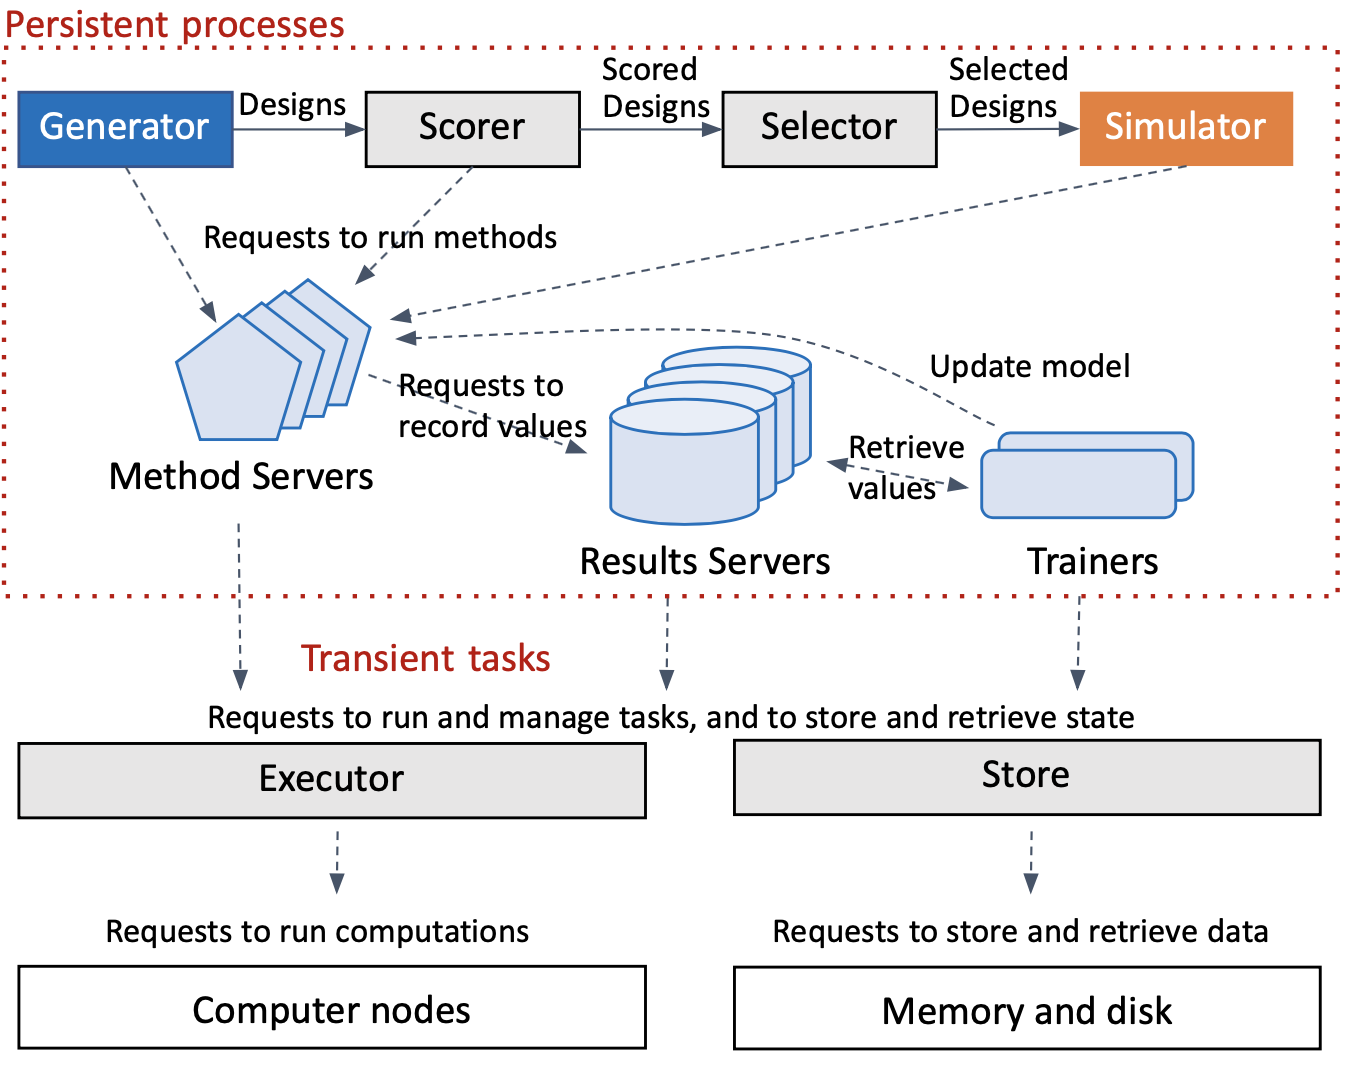
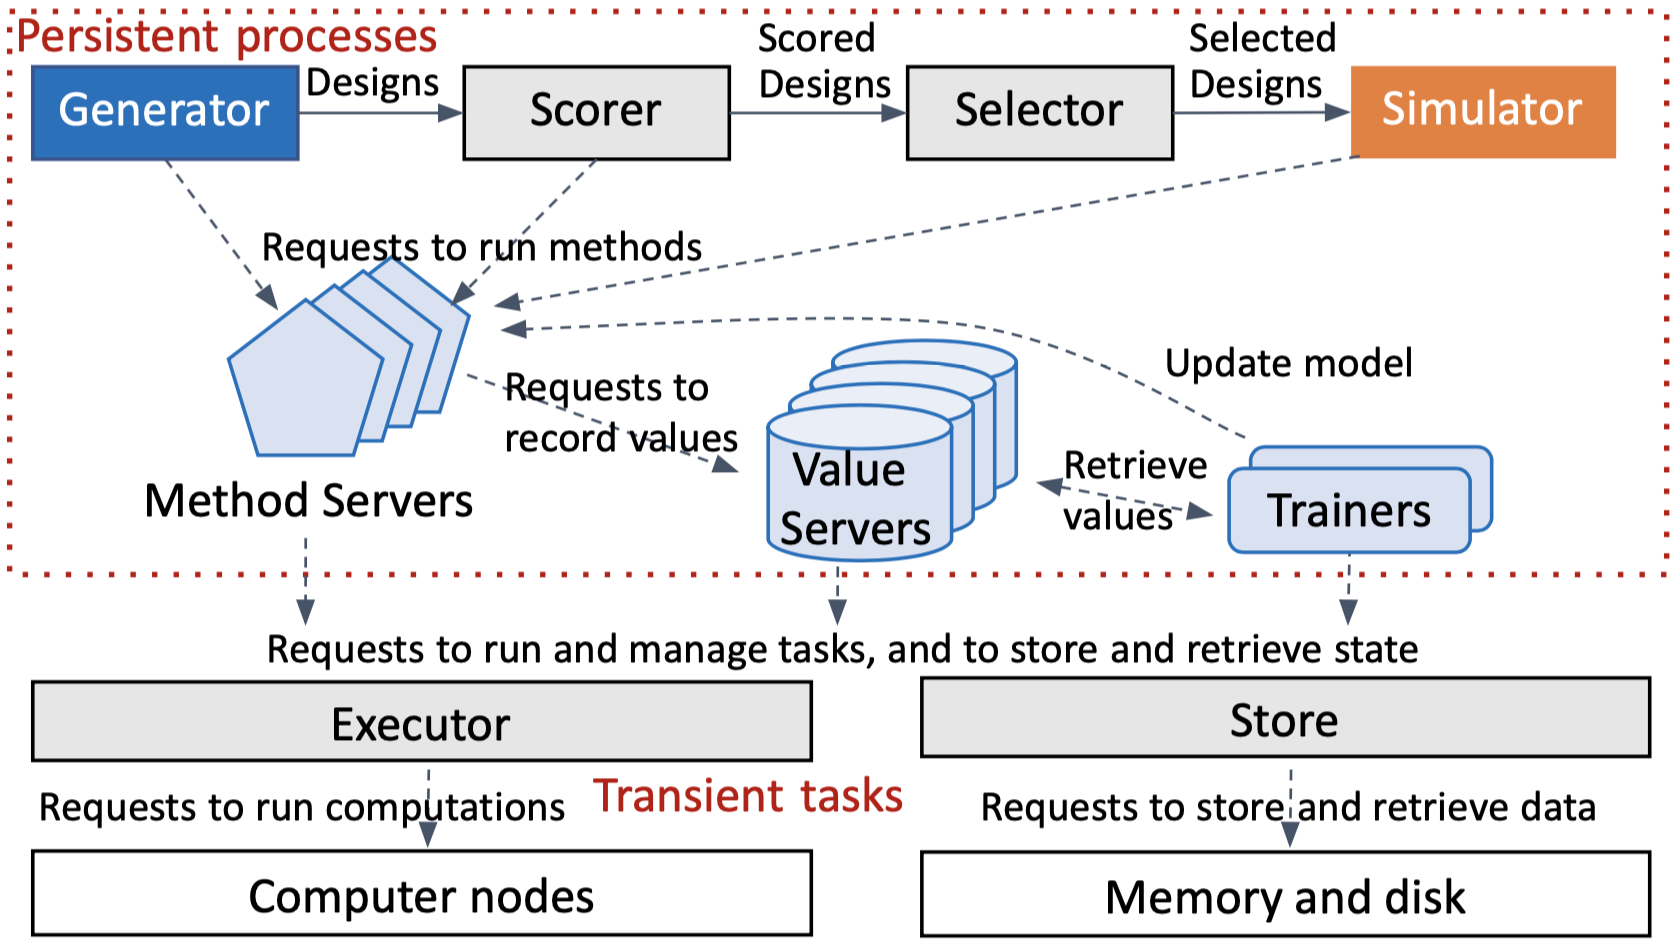
check in

diff --git a/main.tex b/main.tex
@@ -114,12 +114,12 @@ where ``interesting" is defined in terms of \textbf{properties}, $P_i$.
 For example, if the objects are molecules, we might define interesting in terms of three properties: energy, stability, and toxicity.
 Thus, for any candidate molecule $m$, we want to know $P_{\textrm{energy}}$($m)$, $P_{\textrm{stability}}$($m)$, and $P_{\textrm{toxicity}}$($m)$.
 
-We typically cannot determine any $P_i(m)$ precisely. Instead, for a particular property $P_i$, we can have various \textbf{methods}, $P_i^k$, 
-each of which can be used to obtain estimates of $P_i(m)$ values. In the molecular design case, these methods could be, for example, 
-a particular experimental protocol; 
-a quantum mechanics (QM) code; 
-a database collected from the literature; or
-a machine-learned (ML) model based on property value estimate values produced by any other method.
+We typically cannot determine $P_i(m)$ precisely. Instead, for a property $P_i$, we have various \textbf{methods}, $P_i^k$, 
+each of which can be used to obtain estimates of $P_i(m)$ values. In the molecular design case, a method could be, for example, 
+a particular experimental protocol,
+a quantum mechanics (QM) code,
+a database collected from the literature, or
+a machine-learned (ML) model based on estimated values produced by any other method.
 During the discovery process, a method $P_i^k$ may be applied to a series of objects. 
 We denote the \textbf{values} computed by a method $P_i^k$ as \textbf{V}($P_i^k$).
 
@@ -317,11 +317,20 @@ We use a specific example to illustrate issues.
 \label{fig:sketch}
 \end{figure}
 
-Figure~\ref{fig:sketch} shows the four components of a materials discovery workflow plus different methods: 
+Figure~\ref{fig:sketch} shows the logical architecture of the materials discovery workflow for an electrolyte discovery application.
+This includes the four components of Figure~\ref{fig:pipe} plus six methods: 
 the Q-agent, three ML methods (\textbf{A}, \textbf{B}, \textbf{C}), and two simulation methods (\textbf{M}, \textbf{N}).
-The various components can run synchronously or asynchronously, depending on whether an RL agent that generates a set of designs, \emph{X}, does or does not wait, respectively, for A and C to be updated based on \textbf{M}(\emph{X’}) and \textbf{N}(\emph{X’}) (\emph{X’} $\subset$ \emph{X})  before starting the next cycle. We need to evaluate how this effects results obtained.
+%The various components can run synchronously or asynchronously, depending on whether an RL agent that generates a set of designs, \emph{X}, does or does not wait, respectively, for A and C to be updated based on \textbf{M}(\emph{X’}) and \textbf{N}(\emph{X’}) (\emph{X’} $\subset$ \emph{X})  before starting the next cycle. We need to evaluate how this effects results obtained.
 
-Initial 
+Initial estimates of runtimes for these components are as follows. 
+The generator runs repeatedly, using RL methods to generate perhaps \num{20000} candidates in 30 minutes.
+Each candidate is represented by a SMILES string at this point, so space requirements are small.
+It may take perhaps 1 minute to score those candidates, assuming a few milliseconds per scoring operation,
+and a few seconds to select the top \num{1000} candidates for simulation.
+The simulation component is then the most expensive, requiring perhaps 10 node-hours to simulate each candidate,
+for a total of \num{100000} node hours.
+The other expensive task is retraining models \textbf{B} and \textbf{C}, each of which can take 24 hours on 100 Theta nodes.
+While only 2400 node hours each, this is a substantial elapsed time.
 
 
 \begin{figure}
@@ -330,7 +339,7 @@ Initial
   \includegraphics[width=0.8\textwidth,trim=0in 0in 0in 0in,clip]{./Figs/arch.png}
   %}}
   \vspace{-1.5ex}
-  \caption{TBD}
+  \caption{A schematic of a proposed implementation architecture}
 \label{fig:arch}
 \end{figure}
 
@@ -339,39 +348,27 @@ Initial
 We now turn to the question of how to implement the logical architecture, for example on a large parallel computer. 
 We propose the architecture shown in Figure~\ref{fig:arch}, which we now outline, from top to bottom.
 
-\textbf{Generator, Scorer, Selector, Evaluator}: The upper part of the figure shows the four components that we introduced in Section~\ref{sec:overview}:
+%\textbf{Generator, Scorer, Selector, Evaluator}: 
+The upper part of the figure shows the four components that we introduced in Section~\ref{sec:overview}:
 the generator, scorer, selector, and evaluator. 
-As described earlier, designs are passed from the generator to th Scorer, Selector, and Evaluator.
+As described earlier, designs are passed from the generator to the Scorer, Selector, and Evaluator.
 We envision each of these components operating as a single process.
 %with state (objects) either passed between the elements via message passing or via the Store, 
 
 As described earlier, these components evaluate designs by applying various methods. 
-We envision this process involving calls to method servers, 
+We envision this process involving calls to method servers, each of which is responsible for coordinating the dispatch of computational requests
+to an Executor and of values returned by those requests to the associated value server.
+These may each be a single process, with state (e.g., values) maintained in Store.
 
-%Application pipeline
-%Synposis: Designs from the Generator are passed to the Scorer, Selector, and Simulator. For each design generated or received, the Generator, Selector, and Simulator issue Score requests to one or more Method Servers. 
-%Size: These may each be a single process, with state (designs) maintained in the Store.
-
-
-\textbf{Method Servers, Value Servers, Trainers}: 
-Synopsis: These components dispatch tasks to the Executor and coordinate activities with each other, with state maintained in the Store.
-Size: These may each be a single process, with state (e.g., values) maintained in Store.
-
-
-\textbf{Executors}:
-Synopsis: The Executor accepts requests to run tasks, tracks their status, and reports results. (As tasks may range in size from a few ms on one core to 1000s of core-hours, we may want several executors.) The Store maintains state. (We may want different levels of persistence.)
-Size: Executor(s) may each be a single process.
-
-\textbf{Store}: 
-
-\textbf{Physical resources}: 
-Synopsis: These are the physical resources that execute programs and store data.
-Size: Perhaps tens of thousands of nodes and many terabytes of storage.
+The Executor accepts requests to run tasks, tracks their status, and reports results. 
+(As tasks may range in size from a few ms on one core to 1000s of core-hours, we may want several executors with different capabilities.) 
+The Store maintains state. (We may want different levels of persistence.)
+The Executor(s) and Store(s) manage access to perhaps tens of thousands of nodes and many terabytes of storage.
 
 \subsection{An example configuration}
 
 The structure shown in Figure~\ref{fig:sketch} might result in the following configuration. 
-We have a total of 17 persistent services, as follows:
+We have a total of 19 persistent services, as follows:
 \begin{itemize}\itemsep-0.2em
 \item
 The generator, scorer, selector, and evaluator, as described above.
@@ -381,17 +378,13 @@ Five method servers, for \textbf{A}, \textbf{B}, \textbf{C}, \textbf{M}, and \te
 Five value servers, one per method server.
 \item
 Three trainers, one for each of \textbf{A}, \textbf{B}, and \textbf{C}.
+\item
+One executor and one store. 
 \end{itemize}
 
 \q{What about Q-trainer and Q value server?}
 
-The generator runs repeatedly, using RL methods to generate perhaps \num{20000} candidates in 30 minutes.
-Each candidate is represented by a SMILES string at this point, so space requirements are small.
-It may take perhaps 1 minute to score those candidates, assuming a few milliseconds per scoring operation,
-and a few seconds to select the top \num{1000} candidates for simulation.
-The simulation component is then the most expensive, requiring perhaps 10 node-hours to simulate each candidate,
-for a total of \num{100000} node hours.
-The other expensive task is retraining models \textbf{B} and \textbf{C}, which 
+
 
 %\begin{tabular}{| l }
 %Component & Input & Output & Cost & Retraining 
@@ -399,13 +392,6 @@ The other expensive task is retraining models \textbf{B} and \textbf{C}, which
 %Scorer       &
 %Selector     &    
 %Evaluator   & 
-
-30 minutes for RL to generate 20K candidates
-1 minute to score 20K candidates
-A few seconds (?) to select top 1K candidates for simulation
-1K x N node-hours to simulate the 1K candidates (N not yet known)
-The expensive part (in terms of elapsed time) is perhaps the ML model retraining, which currently takes 24 hours on 100 Theta nodes
- 
 
 
 
@@ -436,7 +422,7 @@ Send result to $R$
 Update method (if ML method) 
 \end{compactitem}
 
-\vspace{1ex}
+\vspace{2ex}
 
 \noindent
 \textbf{Results server}\\
@@ -457,7 +443,7 @@ Retrieve specified or all values
 Archive old values on model update (?)
 \end{compactitem}
 
-\vspace{1ex}
+\vspace{2ex}
 
 \noindent
 \textbf{Trainer}\\
@@ -483,7 +469,7 @@ Update model in M
 \end{compactitem}
 
 
-\vspace{1ex}
+\vspace{2ex}
 
 \noindent
 \textbf{Executor}\\
@@ -512,33 +498,33 @@ Set policies for resource allocation (?)
 
 \section{Requirements}
 
-\begin{itemize}
+\begin{enumerate}
 \item
 Task creation and management within a single HPC session.
-\begin{itemize}
+\begin{enumerate}
 \item Creation of persistent and transient processes.We want to be able to allocate \textbf{N} $\ge$  \textbf{A} +  \textbf{B} +  \textbf{C} nodes and then:
-\begin{itemize}
+\begin{enumerate}
 \item
 Start  \textbf{A} persistent manager processes, each on a single node
 \item
 Run many transient single-node tasks on another \textbf{B} nodes. (If using Parsl, that means starting B persistent worker processes on B nodes.)
 \item
 Run many transient multiple-node MPI computations on  \textbf{C} nodes.
-\end{itemize}
+\end{enumerate}
 \item
 Where managers can monitor (e.g., detect failure) and manage (e.g., terminate, restart) their workers and MPI computations
-\end{itemize}
+\end{enumerate}
 \item
 Communication:
-\begin{itemize}
+\begin{enumerate}
 \item
-Managers can pass information to the single-node tasks of (b) above and the MPI computations of (c) above, and get results back. I.e., conventional Parsl functional semantics.
+Managers can pass information to the single-node tasks of (ii) above and the MPI computations of (iii) above, and get results back. I.e., conventional Parsl functional semantics.
 \item
 Managers can communicate in some convenient manner (e.g., message passing)
 \item
-Processes can also read and write a shared RAM/NVRAM store
-\end{itemize}
-\end{itemize}
+Processes can also read and write a shared RAM / NVRAM store
+\end{enumerate}
+\end{enumerate}
 
 My understanding is that with \texttt{MPIX\_Comm\_launch}, we can do this all on a Linux cluster, but not on Summit or Theta, and without the convenience of Parsl and Radical.
 
